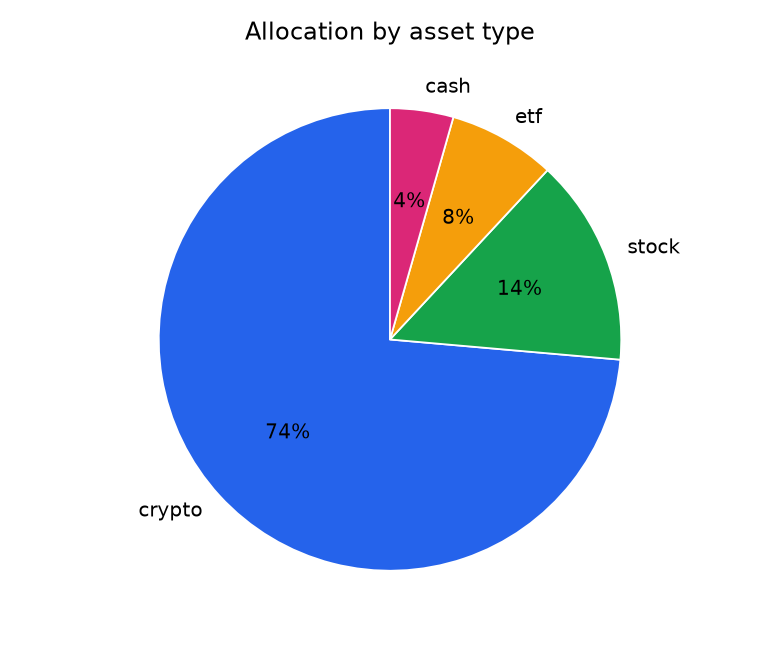
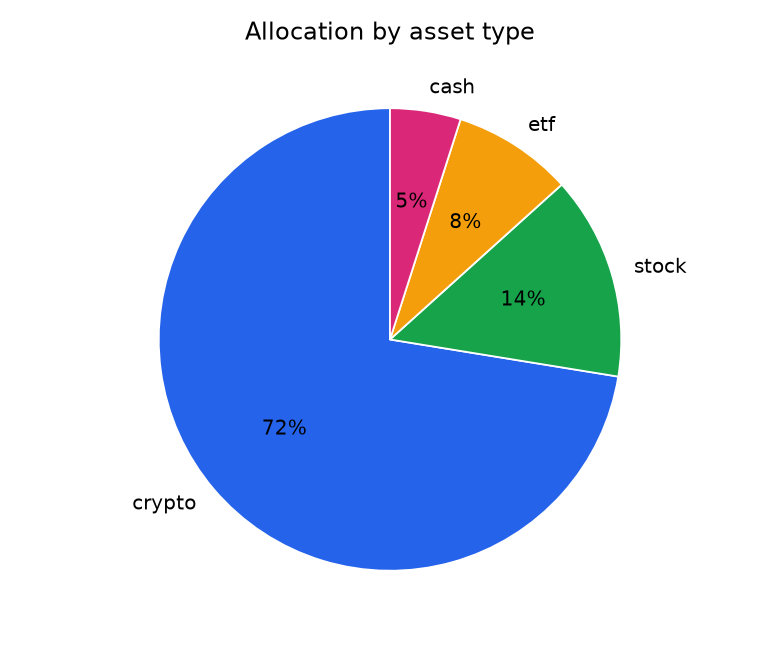
Report everything in EUR with currency conversion

diff --git a/portfolio_stats/prices.py b/portfolio_stats/prices.py
@@ -1,4 +1,9 @@
-"""Live price lookup via Yahoo Finance (yfinance)."""
+"""Live price lookup via Yahoo Finance (yfinance), converted to one currency.
+
+Yahoo quotes each instrument in its native currency (e.g. AAPL and BTC-USD in
+USD, VWCE.DE in EUR). Prices are converted to `target_currency` using Yahoo FX
+rates, so the whole portfolio is expressed in a single currency.
+"""
 
 from __future__ import annotations
 
@@ -7,39 +12,91 @@ import logging
 log = logging.getLogger(__name__)
 
 
-def fetch_prices(symbols: list[str]) -> dict[str, float]:
-    """Return {symbol: last_price} for the symbols that could be priced.
-
-    Symbols use Yahoo Finance notation (e.g. "AAPL", "VWCE.DE", "BTC-USD").
-    Symbols that cannot be resolved are simply left out of the result.
-    """
+def fetch_prices(symbols: list[str], target_currency: str = "EUR") -> dict[str, float]:
+    """Return {symbol: price_in_target_currency} for the symbols that could be priced."""
     if not symbols:
         return {}
 
     import yfinance as yf
 
+    target = target_currency.upper()
+    fx_cache: dict[tuple[str, str], float | None] = {}
     prices: dict[str, float] = {}
+
     for symbol in symbols:
-        price = _fetch_one(yf, symbol)
-        if price is not None:
-            prices[symbol] = price
-        else:
+        price, currency = _price_and_currency(yf, symbol)
+        if price is None:
             log.warning("No price available for %s", symbol)
+            continue
+        if not currency:
+            log.warning("Unknown currency for %s; assuming %s", symbol, target)
+            currency = target
+
+        rate = _fx_rate(yf, currency, target, fx_cache)
+        if rate is None:
+            log.warning("No FX rate %s->%s for %s; skipping", currency, target, symbol)
+            continue
+        prices[symbol] = price * rate
+
     return prices
 
 
-def _fetch_one(yf, symbol: str) -> float | None:
+def get_fx_rate(base: str, quote: str) -> float | None:
+    """Current FX rate to turn one unit of `base` into `quote` (None if unavailable)."""
+    import yfinance as yf
+
+    return _fx_rate(yf, base, quote, {})
+
+
+def _price_and_currency(yf, symbol: str) -> tuple[float | None, str | None]:
     ticker = yf.Ticker(symbol)
-    # fast_info is cheap and usually enough.
+    price: float | None = None
+    currency: str | None = None
+
     try:
-        return float(ticker.fast_info["last_price"])
+        fast = ticker.fast_info
+        price = float(fast["last_price"])
+        currency = fast["currency"]
     except Exception:
         pass
-    # Fall back to the last daily close.
+
+    if price is None:  # fall back to the last daily close
+        try:
+            history = ticker.history(period="1d")
+            if not history.empty:
+                price = float(history["Close"].iloc[-1])
+        except Exception as exc:
+            log.warning("Price fetch failed for %s: %s", symbol, exc)
+
+    if currency is None:
+        try:
+            currency = ticker.fast_info["currency"]
+        except Exception:
+            currency = None
+
+    return price, (currency.upper() if currency else None)
+
+
+def _fx_rate(yf, base: str, quote: str, cache: dict[tuple[str, str], float | None]) -> float | None:
+    base, quote = base.upper(), quote.upper()
+    if base == quote:
+        return 1.0
+
+    key = (base, quote)
+    if key in cache:
+        return cache[key]
+
+    rate = None
+    pair = f"{base}{quote}=X"  # e.g. USDEUR=X
     try:
-        history = ticker.history(period="1d")
-        if not history.empty:
-            return float(history["Close"].iloc[-1])
-    except Exception as exc:  # network error, bad symbol, ...
-        log.warning("Price fetch failed for %s: %s", symbol, exc)
-    return None
+        rate = float(yf.Ticker(pair).fast_info["last_price"])
+    except Exception:
+        try:
+            history = yf.Ticker(pair).history(period="1d")
+            if not history.empty:
+                rate = float(history["Close"].iloc[-1])
+        except Exception as exc:
+            log.warning("FX rate %s->%s failed: %s", base, quote, exc)
+
+    cache[key] = rate
+    return rate

diff --git a/portfolio_stats/app.py b/portfolio_stats/app.py
@@ -10,7 +10,8 @@ import sys
 from .charts import render_all
 from .config import Config
 from .history import load_series, record_snapshot
-from .prices import fetch_prices
+from .models import Portfolio
+from .prices import fetch_prices, get_fx_rate
 from .providers import build_provider
 from .stats import PortfolioStats, compute_stats
 from .telegram import send_message, send_photo_group
@@ -49,15 +50,34 @@ def build_message(stats: PortfolioStats) -> str:
     return "\n".join(lines)
 
 
+def _convert(portfolio: Portfolio, target: str) -> None:
+    """Convert a portfolio's monetary fields into `target` at the current FX rate."""
+    rate = get_fx_rate(portfolio.currency, target)
+    if not rate:
+        log.warning("No FX rate %s->%s; keeping values in %s", portfolio.currency, target, portfolio.currency)
+        return
+    for position in portfolio.positions:
+        position.avg_open_price *= rate
+        if position.current_price is not None:
+            position.current_price *= rate
+    portfolio.cash *= rate
+    portfolio.currency = target
+
+
 def run(config: Config, source: str, send: bool) -> None:
     provider = build_provider(source, config)
     portfolio = provider.get_portfolio()
+
+    # A provider may report in a different currency (e.g. an eToro account in USD).
+    # Convert everything it already priced into the base currency at the current rate.
+    if portfolio.currency.upper() != config.base_currency.upper():
+        _convert(portfolio, config.base_currency)
 
     # Only price positions the provider did not already price (eToro returns rates itself).
     to_price = [p.symbol for p in portfolio.positions if p.current_price is None]
     if to_price:
         log.info("Pricing %d position(s) via Yahoo Finance", len(to_price))
-        prices = fetch_prices(to_price)
+        prices = fetch_prices(to_price, config.base_currency)
         for position in portfolio.positions:
             if position.current_price is None:
                 position.current_price = prices.get(position.symbol)

diff --git a/portfolio_stats/providers/etoro.py b/portfolio_stats/providers/etoro.py
@@ -44,6 +44,9 @@ def _first(mapping: dict, *keys, default=None):
 
 class EtoroProvider(PortfolioProvider):
     def __init__(self, api_key: str, user_key: str, account: str = "real", currency: str = "USD") -> None:
+        # `currency` is only a fallback: the real account currency is read from the
+        # balances response. eToro reports portfolio values in the account currency
+        # (often USD); the app converts to BASE_CURRENCY afterwards if they differ.
         if not api_key or not user_key:
             raise ValueError(
                 "eToro API credentials missing. Set ETORO_API_KEY and ETORO_USER_KEY "
@@ -126,13 +129,15 @@ class EtoroProvider(PortfolioProvider):
             )
             positions.append(position)
 
-        cash = self._fetch_cash()
-        return Portfolio(positions=positions, cash=cash, currency=self.currency)
+        cash, currency = self._fetch_cash_and_currency()
+        return Portfolio(positions=positions, cash=cash, currency=currency)
 
-    def _fetch_cash(self) -> float:
+    def _fetch_cash_and_currency(self) -> tuple[float, str]:
         try:
             balances = self._get("/balances/aggregated", params={"accountType": self.account})
         except Exception as exc:
             log.warning("Balance lookup failed, treating cash as 0: %s", exc)
-            return 0.0
-        return float(_first(balances, "cash", "available", "credit", "balance", default=0) or 0)
+            return 0.0, self.currency
+        cash = float(_first(balances, "cash", "available", "credit", "balance", default=0) or 0)
+        currency = str(_first(balances, "currency", "currencyCode", "accountCurrency", default=self.currency))
+        return cash, currency

diff --git a/portfolio_stats/config.py b/portfolio_stats/config.py
@@ -33,7 +33,7 @@ class Config:
             telegram_chat_id=os.environ.get("TELEGRAM_CHAT_ID"),
             source=os.environ.get("PORTFOLIO_SOURCE", "demo"),
             csv_path=os.environ.get("PORTFOLIO_CSV", "data/sample_holdings.csv"),
-            base_currency=os.environ.get("BASE_CURRENCY", "USD"),
+            base_currency=os.environ.get("BASE_CURRENCY", "EUR"),
             db_path=os.environ.get("DB_PATH", "portfolio_history.db"),
             output_dir=os.environ.get("OUTPUT_DIR", "output"),
             etoro_api_key=os.environ.get("ETORO_API_KEY"),

diff --git a/portfolio_stats/providers/csv_provider.py b/portfolio_stats/providers/csv_provider.py
@@ -19,7 +19,7 @@ from .base import PortfolioProvider
 
 
 class CsvProvider(PortfolioProvider):
-    def __init__(self, path: str, currency: str = "USD") -> None:
+    def __init__(self, path: str, currency: str = "EUR") -> None:
         self.path = path
         self.currency = currency
 

diff --git a/portfolio_stats/providers/demo_provider.py b/portfolio_stats/providers/demo_provider.py
@@ -17,5 +17,5 @@ class DemoProvider(PortfolioProvider):
                 Position("ETH-USD", "Ethereum", 3, 2200, "crypto"),
             ],
             cash=2500,
-            currency="USD",
+            currency="EUR",
         )

diff --git a/portfolio_stats/models.py b/portfolio_stats/models.py
@@ -42,5 +42,5 @@ class Position:
 class Portfolio:
     positions: list[Position]
     cash: float = 0.0
-    currency: str = "USD"
+    currency: str = "EUR"
     as_of: datetime = field(default_factory=datetime.now)

diff --git a/README.md b/README.md
@@ -33,9 +33,13 @@ The data source is pluggable (`PORTFOLIO_SOURCE`):
 
 All of this is posted to Telegram as a message followed by an image album.
 
+Everything is reported in a single currency (`BASE_CURRENCY`, **EUR** by default). Prices come from Yahoo
+in each instrument's native currency and are converted with live FX rates; an eToro account in another
+currency (e.g. USD) is converted the same way.
+
 ### Example output
 
-Generated by `python -m portfolio_stats --source demo` with live prices (the "value over time" chart
+Generated by `python -m portfolio_stats --source demo` with live prices, in EUR (the "value over time" chart
 appears once at least two runs have been recorded):
 
 ![Portfolio overview card](docs/screenshots/overview.png)
@@ -58,7 +62,7 @@ CASH,Cash balance,2500,1,cash
 
 - `symbol` is a [Yahoo Finance](https://finance.yahoo.com) ticker — e.g. `AAPL`, European ETFs like
   `VWCE.DE`, crypto like `BTC-USD`. This is how prices are looked up.
-- `avg_open_price` is your average buy price, in `BASE_CURRENCY`.
+- `avg_open_price` is your average buy price, in `BASE_CURRENCY` (EUR by default).
 - A row with `asset_type=cash` adds to the cash balance (`quantity * avg_open_price`); use
   `quantity=<amount>, avg_open_price=1`.
 
